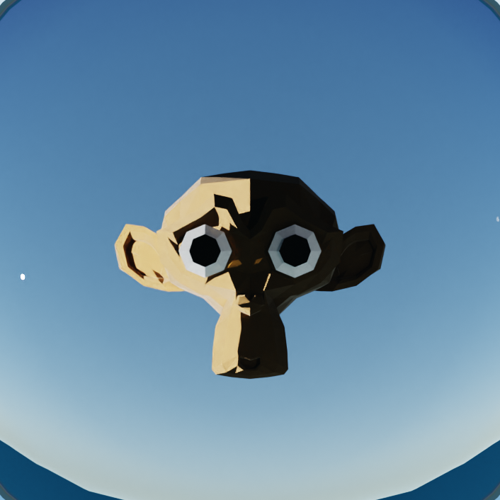
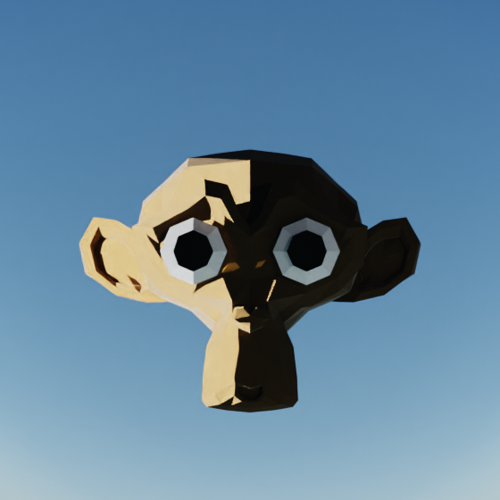
HDR attempted

diff --git a/Python/HDR.py b/Python/HDR.py
@@ -4,6 +4,7 @@ from tkinter import ttk
 import parallax
 import cv2 as cv
 import numpy as np
+from matplotlib import pyplot as plt
 
 
 class HDRPage(tk.Frame):
@@ -53,38 +54,89 @@ class HDRPage(tk.Frame):
         container.tkraise()
 
 
-""" find the overlap between two neighbouring images (with middle absorption= best chance of features) and remove overlap from all images (spiral)
-lens spacing and therefore overlap are constant between images"""
+"""find the overlap between two neighbouring images (with middle absorption= best chance of features) and remove 
+overlap from all images (spiral) lens spacing and therefore overlap are constant between images """
 # TODO stitch two images, stitched image length- original image length= cut-off
-images = []
-filenames = []
-size = parallax.mml_size('HDR')
-for i in range(1, size+1):
-    for j in range(1, size+1):
-        filenames.append('HDRAltered/' + parallax.image_filename('HDR', j, i))
-        print(filenames)
-
-for i in range(len(filenames)):
-    images.append(cv.imread(filenames[i]))
-    cv.imshow(str(i), images[i])
-
-cv.waitKey(0)
-
-stitchy = cv.Stitcher.create()
-(dummy, output) = stitchy.stitch(images)
-
-if dummy != cv.STITCHER_OK:
-    # checking if the stitching procedure is sucessful
-    # .stitch() function returns a true value if stitching is
-    # done successfully
-    print("stitching ain't successful")
-else:
-    print('Your Panorama is ready!!!')
-
-# final output
-cv.imshow('final result', output)
-
-cv.waitKey(0)
+"""as the parallax is small (in reality), aligning using the expose align built into opencv should work"""
 
 
+def align_images():
+    images = []
+    size = parallax.mml_size('HDR')
 
+    # read images into an array
+    for i in range(1, size+1):
+        for j in range(1, size+1):
+            filename = 'HDRAltered/'+parallax.image_filename('HDR', j, i)
+            im = cv.imread(filename)
+            images.append(im)
+
+    # align the images
+    alignMTB = cv.createAlignMTB()
+    alignMTB.process(images, images)
+
+    # # show the aligned images
+    # for i in range(1, (size+1)*(size+1)):
+    #     cv.imshow(str(i), images[i])
+    #
+    # cv.waitKey(0)
+    return images
+    ''' Demonstration of stiching usage
+    images = []
+    filenames = ['HDRAltered/' + parallax.image_filename('HDR', 1, 1), 'HDRAltered/' + parallax.image_filename('HDR', 1, 2)]
+    
+    for i in range(len(filenames)):
+        images.append(cv.imread(filenames[i]))
+        cv.imshow(str(i), images[i])
+    
+    cv.waitKey(0)
+    
+    stitching = cv.Stitcher.create()
+    (dummy, output) = stitching.stitch(images)
+    
+    if dummy != cv.STITCHER_OK:
+        # .stitch() function returns a true value if stitching success
+        print("did not work")
+    else:
+        print('worked')
+    
+    # final output
+    cv.imshow('final result', output)
+    
+    cv.imwrite('StitchingExample.png', output)
+    
+    cv.waitKey(0)
+    '''
+
+
+# TODO allow users to adjust the estimated exposure (absorption rate) for each absorption lens to get a better image
+# i.e. a slider for max exposure and min exposure and assume equally distributed within take as inputs here
+def HDR_combine(inputImages):
+    maxAbs = 2.5
+    minAbs = 0.25
+    size = parallax.mml_size('HDR')
+    exposure = np.zeros((size*size), dtype=np.float32)
+    print(exposure)
+
+    for i in range((size*size-1), -1, -1): # highest absorption= lowest brightness= lowest exposure
+        absorption = i * ((maxAbs-minAbs)/(size*size))+minAbs  # as absorption is linearly distributed
+        print(absorption)
+        exposure[i] = 1/absorption
+
+
+    # Estimate the camera response function based on estimated exposure time
+    calibrate = cv.createCalibrateDebevec()  # TODO try other methods
+    response = calibrate.process(inputImages, exposure)
+
+    # Merge images in to HDR image
+    mergeDebevec = cv.createMergeDebevec()
+    hdr = mergeDebevec.process(inputImages, exposure, response)
+
+    # show the HDR image
+    cv.imshow('HDR', hdr)
+    cv.waitKey(0)
+
+
+# test HDR
+images = align_images()
+HDR_combine(images)

diff --git a/Python/parallax.py b/Python/parallax.py
@@ -103,8 +103,12 @@ def im_resize(name):
     print(imageSize, ' ', name)
     squareSize = math.sqrt(imageSize * imageSize / 2) - 3
     diff = int((imageSize - squareSize) / 2)
-    box = (diff, diff, (imageSize - diff), (imageSize - diff))
 
+    # TODO Render images for HDR with less lens in
+    if name == 'HDR': # HDR requires a tighter crop so no lens is shown
+        diff = diff*1.5
+
+    box = (diff, diff, (imageSize - diff), (imageSize - diff))
     for i in range(1, mmlSize + 1):
         for j in range(1, mmlSize + 1):
             fileName = image_filename(name, i, j)
